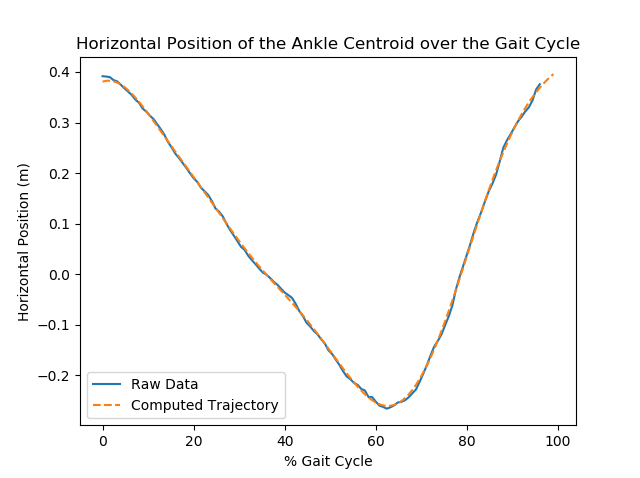
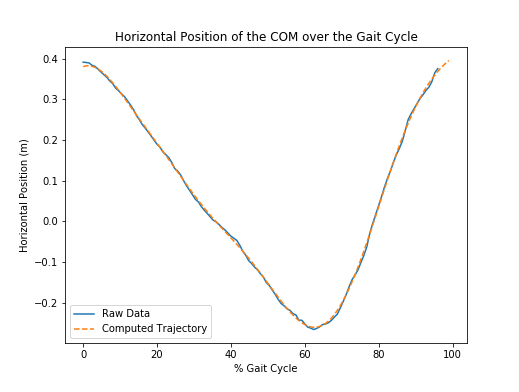
more plotting stuffs

diff --git a/activation.py b/activation.py
@@ -115,18 +115,30 @@ if __name__ == '__main__':
   frequency, duty_cycle, scaling, non_linearity = 50, 0.25, 1.0, -1
   a = Activation(frequency, duty_cycle, scaling, non_linearity)
   a.get_activation_signal(emg_data_regress, shape="monophasic")
-#  plt.figure()
-#  plt.xlabel("% Gait Cycle")
-#  plt.ylabel("Normalized Activation")
-#  plt.title("Generated FES Activation Signal Over % Gait Cycle")
+  plt.figure()
+  plt.xlabel("% Gait Cycle")
+  plt.ylabel("Normalized Activation")
+  plt.title("Generated FES Activation Signal Over % Gait Cycle")
   print(a.get_fatigue())
+  a.plot()
   
   a1 = Activation(50, 0.5, 1, -1)
   a1.get_activation_signal(emg_data_regress, shape="monophasic")
+  plt.figure()
+  plt.xlabel("% Gait Cycle")
+  plt.ylabel("Normalized Activation")
+  plt.title("Generated FES Activation Signal Over % Gait Cycle")
+  a1.plot()
+  
   print(a1.get_fatigue())
 
   a2 = Activation(50, 0.75, 1, non_linearity)
   a2.get_activation_signal(emg_data_regress, shape="monophasic")
+  plt.figure()
+  plt.xlabel("% Gait Cycle")
+  plt.ylabel("Normalized Activation")
+  plt.title("Generated FES Activation Signal Over % Gait Cycle")
+  a2.plot()
   print(a2.get_fatigue())
 #  dutys = np.arange(0,1,0.05)
 #  freqs = np.arange(20,50,1)

diff --git a/plot_fix.py b/plot_fix.py
@@ -1,0 +1,24 @@
+import numpy as np
+import matplotlib.pyplot as plt
+from motion_model import MotionModel
+from regression import load_data, get_norm_emg
+from activation import Activation
+
+if __name__ == '__main__':    
+  
+    frequency = np.arange(20,55,5)
+    duty_cycle = np.arange(0,1.0,0.1)
+    
+    # Tile for plotting
+    independent_1 = np.tile(frequency,(len(duty_cycle),1))
+    independent_1 = np.transpose(independent_1)
+    independent_2 = np.tile(duty_cycle,(len(frequency),1))
+
+    from mpl_toolkits.mplot3d import Axes3D 
+    fig2 = plt.figure()
+    ax2 = fig2.gca(projection='3d')
+    ax2.scatter(independent_2,independent_1,above_0_plot000)
+    ax2.set_xlabel('Duty Cycle')
+    ax2.set_ylabel('Frequency (Hz)')
+    ax2.set_zlabel('Clears the floor (1 if True)')
+    

diff --git a/test_rotation.py b/test_rotation.py
@@ -47,7 +47,7 @@ def verify_rotation_matrices(t_start=0, t_end=1):
   plt.legend(('Raw Data', 'Computed Trajectory'))
   plt.xlabel("% Gait Cycle")
   plt.ylabel("Horizontal Position (m)")
-  plt.title("Horizontal Position of the Ankle Centroid over the Gait Cycle")
+  plt.title("Horizontal Position of the COM over the Gait Cycle")
   plt.show()
   
   # Plot global vertical of centroid
@@ -57,7 +57,7 @@ def verify_rotation_matrices(t_start=0, t_end=1):
   plt.legend(('Raw Data', 'Computed Trajectory'))
   plt.xlabel("% Gait Cycle")
   plt.ylabel("Vertical Position (m)")
-  plt.title("Vertical Position of the Ankle Centroid over the Gait Cycle")
+  plt.title("Vertical Position of the COM over the Gait Cycle")
   plt.show()
   
   # Plot phase portraits of centroid
